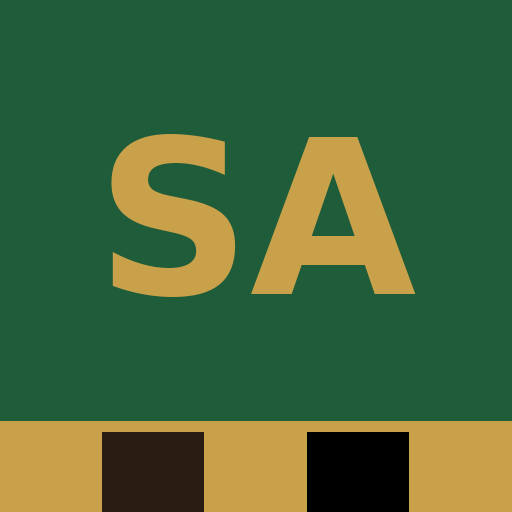
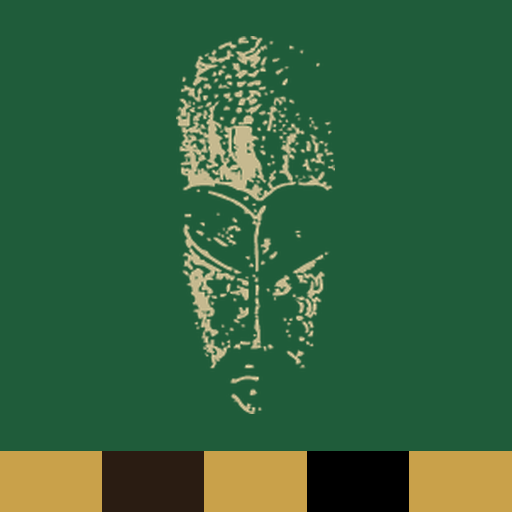
Add files via upload

Changed region(s): [[0.0, 0.0625, 1.0, 0.9062]]

diff --git a/index.html b/index.html
@@ -104,13 +104,63 @@
     .hero h1 em { font-style: normal; color: var(--gold); }
     .hero p.lead { font-size: clamp(17px, 2.2vw, 20px); color: var(--muted); max-width: 600px; margin: 0 0 34px; }
     .hero-actions { display: flex; flex-wrap: wrap; gap: 14px; }
-    .hero-badge {
-      position: absolute; right: -40px; bottom: -40px; width: 340px; height: 340px; border-radius: 50%;
-      border: 2px dashed rgba(201,161,74,0.25);
+    .hero { min-height: 88vh; display: flex; align-items: center; }
+    .hero .wrap { position: relative; z-index: 2; }
+    /* Logo mask in the background */
+    .hero-mask {
+      position: absolute; z-index: 1; right: 6%; top: 50%;
+      height: 104%; aspect-ratio: 94 / 223;
+      transform: translateY(-50%);
+      background: url("/logo-mask.png") center / contain no-repeat;
+      opacity: 0;
+      filter: drop-shadow(0 0 40px rgba(201,161,74,0.25));
+      animation: maskIn 2.2s ease-out 0.3s forwards, maskFloat 9s ease-in-out 2.5s infinite;
+      pointer-events: none;
     }
-    .hero-badge::after {
-      content: ""; position: absolute; inset: 40px; border-radius: 50%;
-      border: 2px solid rgba(201,161,74,0.15);
+    .hero-glow {
+      position: absolute; z-index: 0; right: 2%; top: 50%; width: 46vw; height: 46vw; max-width: 640px; max-height: 640px;
+      transform: translateY(-50%); border-radius: 50%;
+      background: radial-gradient(circle, rgba(201,161,74,0.16), transparent 62%);
+      animation: glow 6s ease-in-out infinite;
+      pointer-events: none;
+    }
+    @keyframes maskIn { from { opacity: 0; transform: translateY(-46%) scale(1.06); } to { opacity: 0.28; transform: translateY(-50%) scale(1); } }
+    @keyframes maskFloat { 0%,100% { transform: translateY(-50%); } 50% { transform: translateY(-52%); } }
+    @keyframes glow { 0%,100% { opacity: 0.7; } 50% { opacity: 1; } }
+
+    /* Animated 3D headline */
+    .hero h1 { perspective: 900px; }
+    .hero h1 .line { display: block; }
+    .hero h1 .ch {
+      display: inline-block; opacity: 0;
+      transform-origin: 50% 100%;
+      transform: translateY(0.5em) rotateX(-95deg);
+      animation: letterUp 0.9s cubic-bezier(.2,.8,.2,1) forwards;
+      animation-delay: calc(var(--i) * 45ms + 250ms);
+      text-shadow: 0 6px 18px rgba(0,0,0,0.45);
+    }
+    .hero h1 .sp { display: inline-block; width: 0.28em; }
+    .hero h1 .gold .ch {
+      background: linear-gradient(100deg, #a9842f 0%, #f1d58e 22%, #c9a14a 40%, #a9842f 60%, #f1d58e 80%, #c9a14a 100%);
+      background-size: 300% 100%;
+      -webkit-background-clip: text; background-clip: text; color: transparent;
+      text-shadow: none;
+      filter: drop-shadow(0 6px 16px rgba(0,0,0,0.5));
+      animation: letterUp 0.9s cubic-bezier(.2,.8,.2,1) forwards, shimmer 5s linear 2s infinite;
+      animation-delay: calc(var(--i) * 45ms + 250ms), 2s;
+    }
+    @keyframes letterUp { to { opacity: 1; transform: none; } }
+    @keyframes shimmer { from { background-position: 0% 50%; } to { background-position: 300% 50%; } }
+    .hero .fade-up { opacity: 0; transform: translateY(16px); animation: fadeUp 0.9s ease forwards; }
+    .hero .eyebrow.fade-up { animation-delay: 0.1s; }
+    .hero .lead.fade-up { animation-delay: 1.2s; }
+    .hero .hero-actions.fade-up { animation-delay: 1.45s; }
+    @keyframes fadeUp { to { opacity: 1; transform: none; } }
+    .brand-mark img { width: 22px; height: 30px; object-fit: contain; }
+    @media (max-width: 760px) {
+      .hero { min-height: 82vh; }
+      .hero-mask { right: -14%; height: 92%; }
+      @keyframes maskIn { from { opacity: 0; } to { opacity: 0.18; } }
     }
 
     /* Sections */
@@ -272,6 +322,8 @@
     @media (prefers-reduced-motion: reduce) {
       html { scroll-behavior: auto; }
       .reveal { opacity: 1; transform: none; transition: none; }
+      .hero h1 .ch, .hero .fade-up { animation: none !important; opacity: 1; transform: none; }
+      .hero-mask { animation: none; opacity: 0.25; }
     }
   </style>
 </head>
@@ -280,7 +332,7 @@
   <header class="nav">
     <div class="wrap nav-inner">
       <a href="#top" class="brand" aria-label="Sumanpa Academy home">
-        <div class="brand-mark">SA</div>
+        <div class="brand-mark"><img src="/logo-mask.png" alt="" /></div>
         <div class="brand-name">Sumanpa <span>Academy</span></div>
       </a>
       <nav class="nav-links" id="nav-links">
@@ -298,15 +350,19 @@
     <!-- HERO -->
     <section class="hero">
       <div class="wrap">
-        <p class="eyebrow">For Ghanaians everywhere</p>
-        <h1>Life. Business.<br /><em>The World.</em></h1>
-        <p class="lead">Sumanpa Academy is a studio where we share real knowledge about living well, building a business and understanding the world, rooted in who we are as Ghanaians.</p>
-        <div class="hero-actions">
+        <p class="eyebrow fade-up">For Ghanaians everywhere</p>
+        <h1 id="hero-title" aria-label="Life. Business. The World.">
+          <span class="line" data-text="Life. Business."></span>
+          <span class="line gold" data-text="The World."></span>
+        </h1>
+        <p class="lead fade-up">Sumanpa Academy is a studio where we share real knowledge about living well, building a business and understanding the world, rooted in who we are as Ghanaians.</p>
+        <div class="hero-actions fade-up">
           <a href="#classes" class="btn btn-gold">Explore classes</a>
           <a href="#join" class="btn btn-outline">Join the newsletter</a>
         </div>
       </div>
-      <div class="hero-badge" aria-hidden="true"></div>
+      <div class="hero-glow" aria-hidden="true"></div>
+      <div class="hero-mask" aria-hidden="true"></div>
     </section>
     <div class="kente" aria-hidden="true"></div>
 
@@ -525,7 +581,7 @@
   <footer>
     <div class="wrap foot">
       <a href="#top" class="brand" aria-label="Back to top">
-        <div class="brand-mark">SA</div>
+        <div class="brand-mark"><img src="/logo-mask.png" alt="" /></div>
         <div class="brand-name">Sumanpa <span>Academy</span></div>
       </a>
       <p>Questions? Message us on Instagram <a class="ig" href="https://www.instagram.com/sumanpaacademy" target="_blank" rel="noopener">@sumanpaacademy</a></p>
@@ -539,6 +595,33 @@
     const SUPABASE_KEY = "sb_publishable_JhJg5PsKhjwkhNQoaYhxhQ_VdXyM92X";
 
     document.getElementById("year").textContent = new Date().getFullYear();
+
+    // Split the headline into letters for the 3D animation
+    (function () {
+      let i = 0;
+      document.querySelectorAll("#hero-title .line").forEach(line => {
+        line.setAttribute("aria-hidden", "true");
+        line.dataset.text.split("").forEach(c => {
+          const s = document.createElement("span");
+          if (c === " ") { s.className = "sp"; }
+          else { s.className = "ch"; s.textContent = c; s.style.setProperty("--i", i++); }
+          line.appendChild(s);
+        });
+      });
+    })();
+
+    // Gentle 3D tilt of the background mask as the mouse moves
+    (function () {
+      const mask = document.querySelector(".hero-mask");
+      const hero = document.querySelector(".hero");
+      if (!mask || window.matchMedia("(prefers-reduced-motion: reduce)").matches) return;
+      hero.addEventListener("mousemove", (e) => {
+        const r = hero.getBoundingClientRect();
+        const x = (e.clientX - r.left) / r.width - 0.5;
+        const y = (e.clientY - r.top) / r.height - 0.5;
+        mask.style.translate = (x * -18) + "px " + (y * -12) + "px";
+      });
+    })();
 
     // Mobile menu
     const navLinks = document.getElementById("nav-links");

diff --git a/sw.js b/sw.js
@@ -1,6 +1,6 @@
 // Sumanpa Academy app: keeps the site available offline after the first visit.
-const CACHE = "sumanpa-v2";
-const FILES = ["/", "/index.html", "/manifest.json", "/icon-192.png", "/icon-512.png"];
+const CACHE = "sumanpa-v3";
+const FILES = ["/", "/index.html", "/manifest.json", "/icon-192.png", "/icon-512.png", "/logo-mask.png"];
 
 self.addEventListener("install", (e) => {
   e.waitUntil(caches.open(CACHE).then((c) => c.addAll(FILES)));
